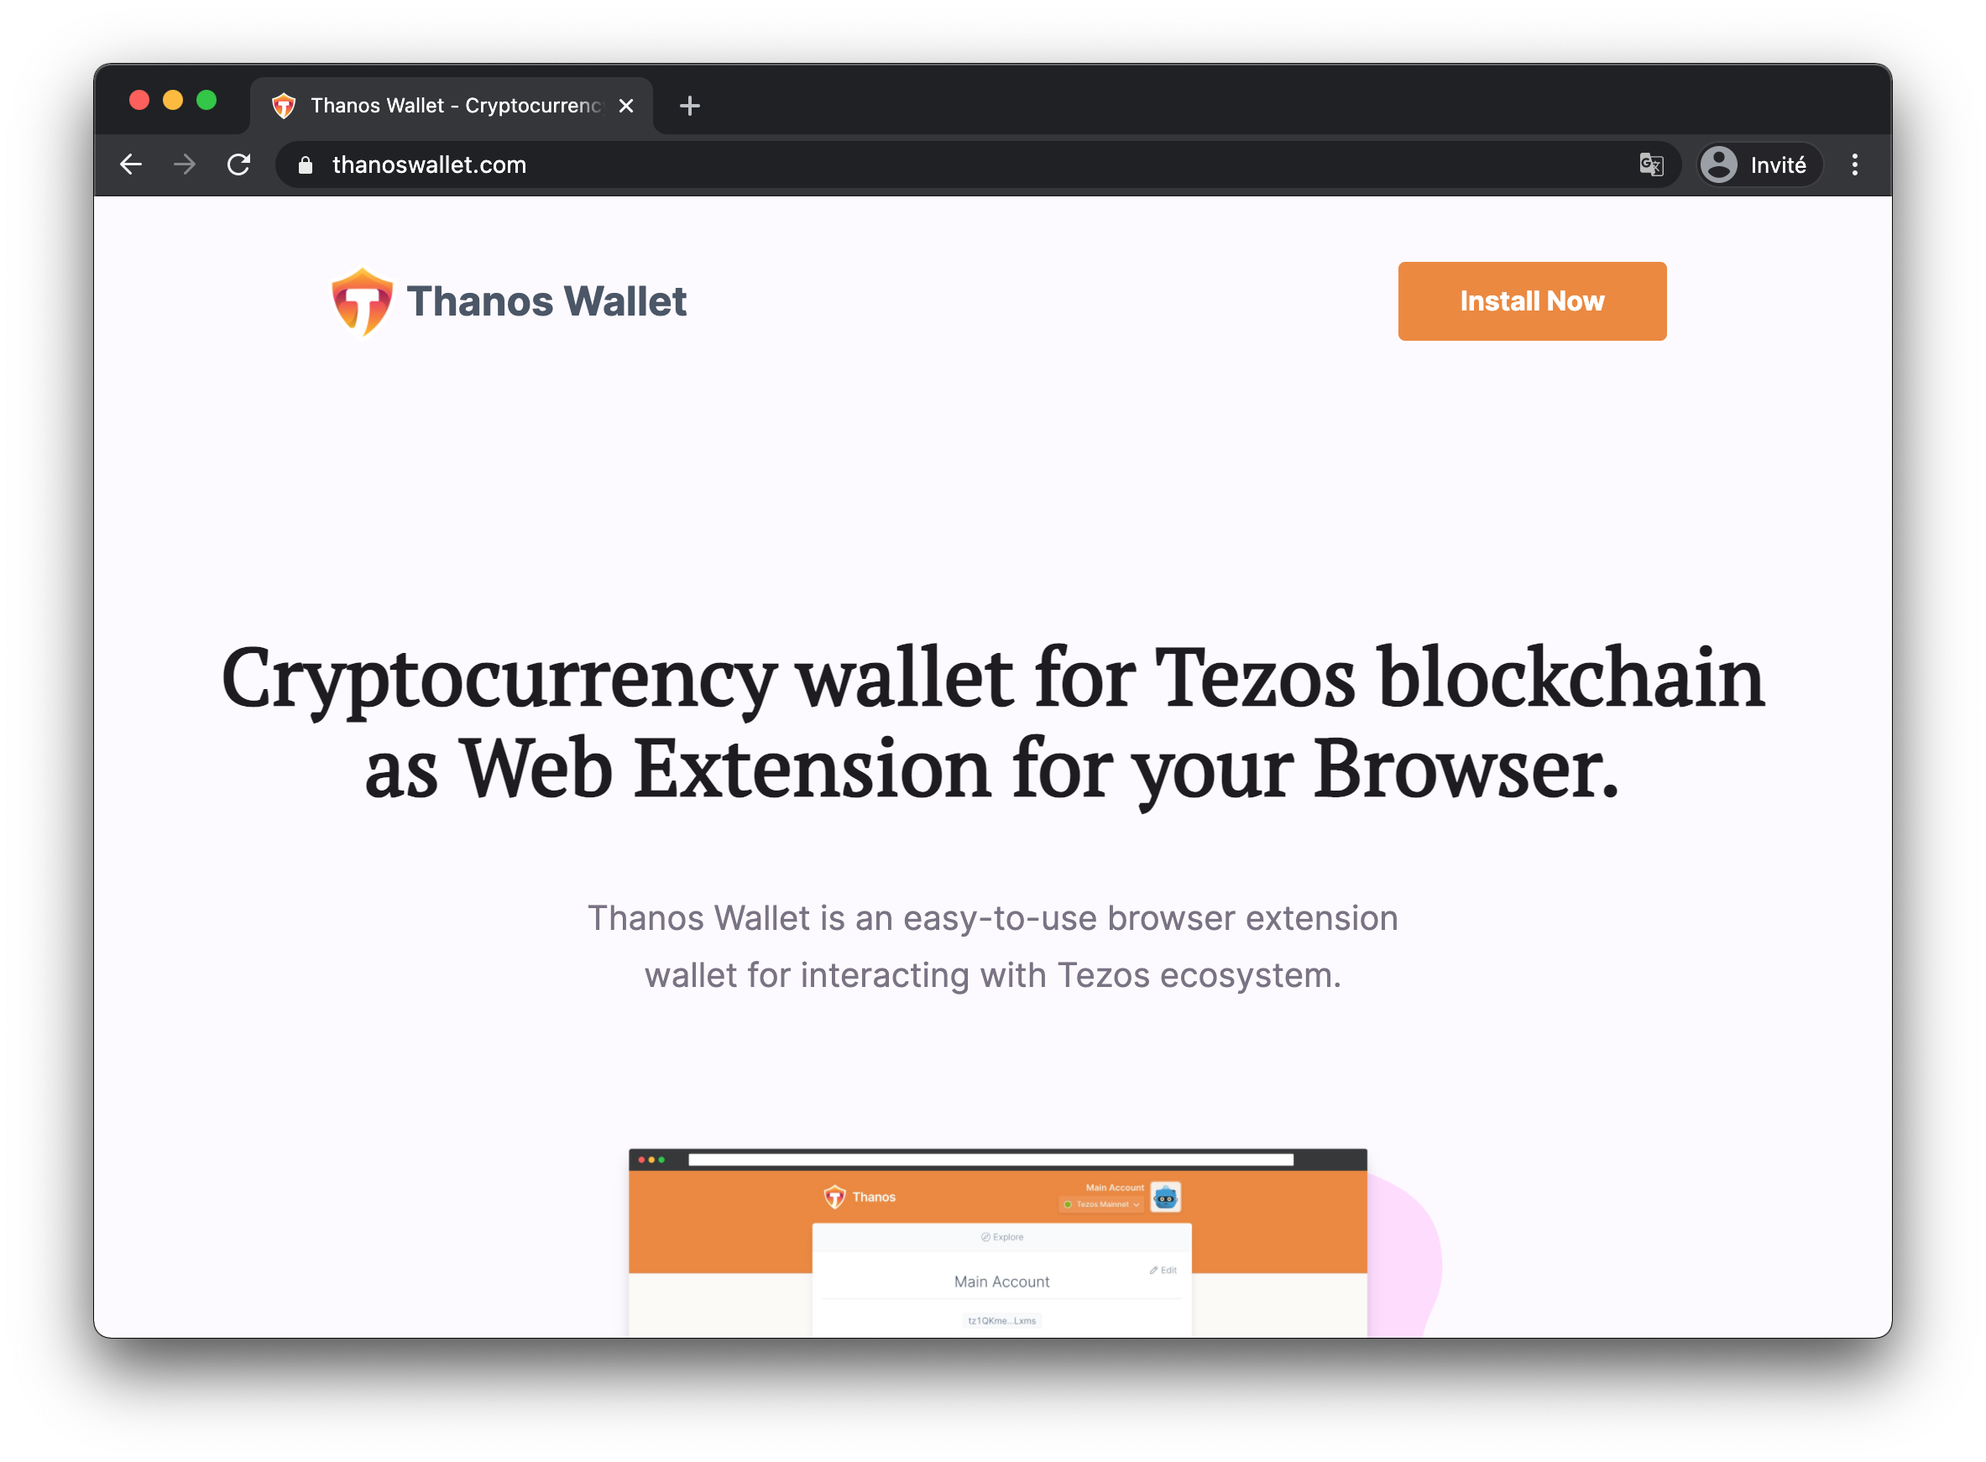
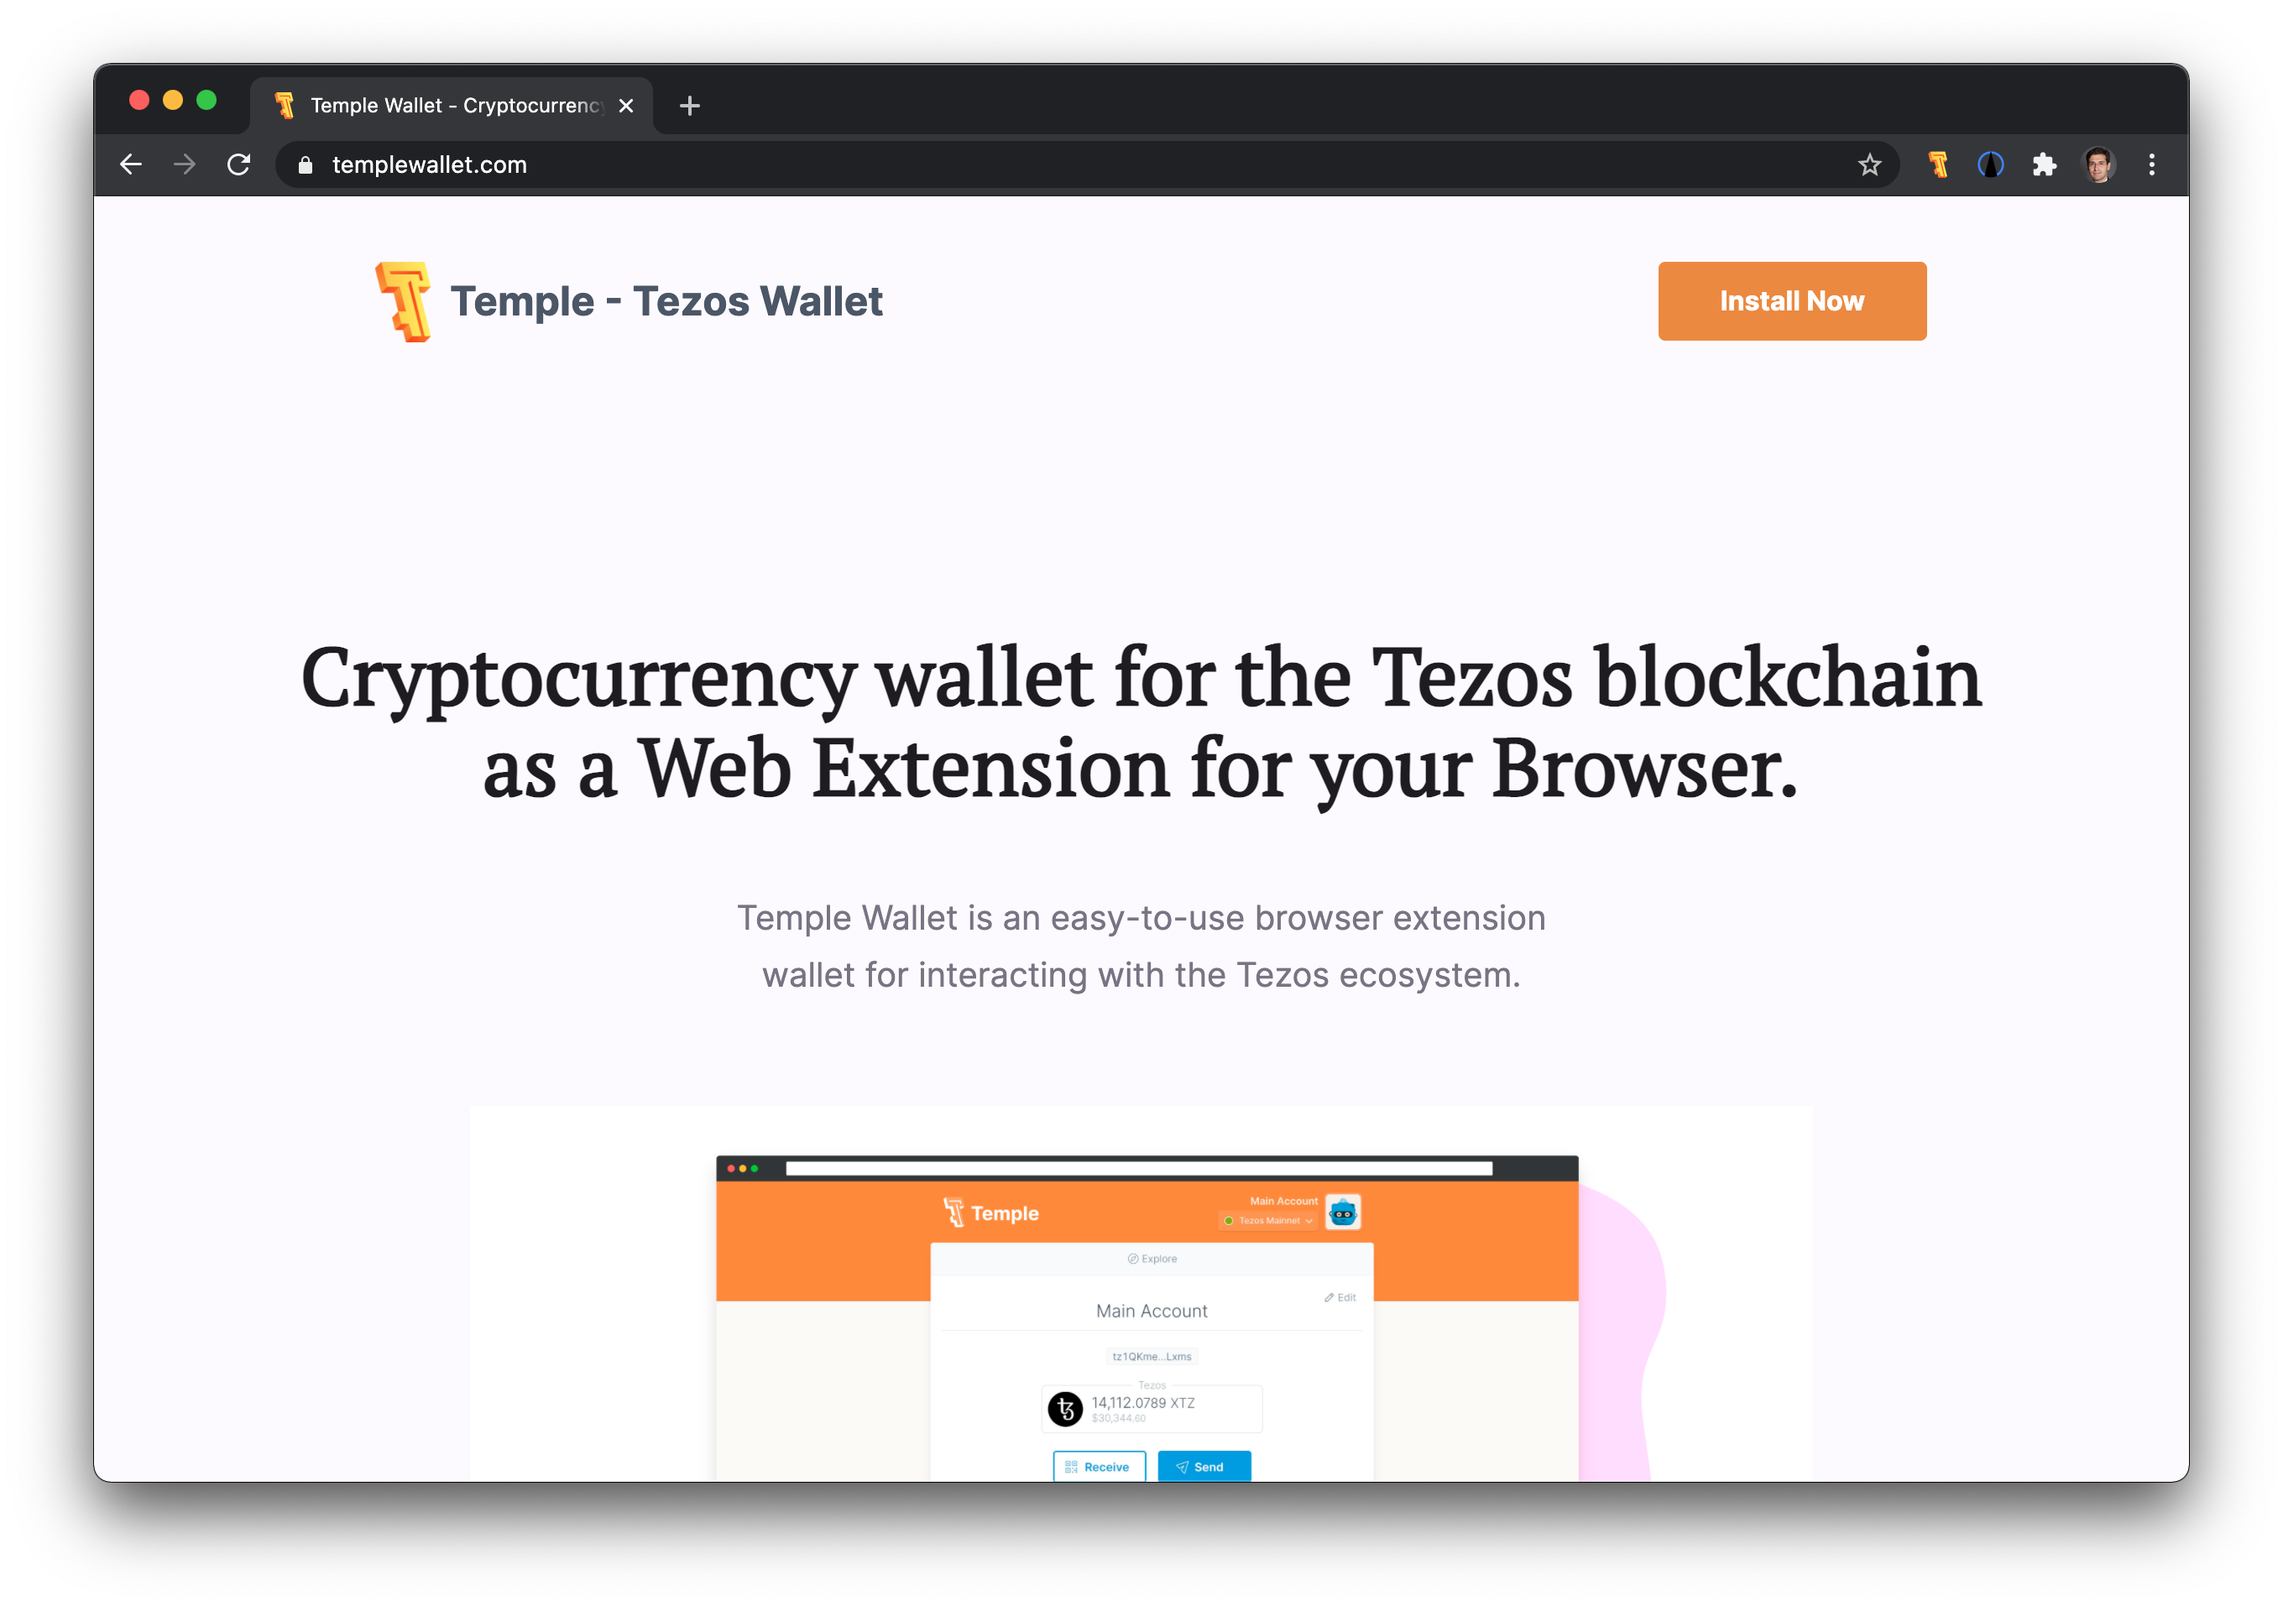
fix tools pages

Changed region(s): [[0.0309, 0.031, 0.9873, 0.961], [0.0926, 0.403, 0.8948, 0.682]]

diff --git a/sidebars.js b/sidebars.js
@@ -2,15 +2,33 @@ module.exports = {
   docs:  ['doc1', 'doc2', 'doc3'],
   tools:  [
     'dapp-tools/tools1',
-    'dapp-tools/tools10',
-    'dapp-tools/tools9',
-    'dapp-tools/tools8',
-    'dapp-tools/tools7',
-    'dapp-tools/tools3',
-    'dapp-tools/tools2',
-      'dapp-tools/tools4',
-      'dapp-tools/tools5',
-      'dapp-tools/tools6',
+    {
+      type: 'category',
+      label: 'Blockchain',
+      items: [
+        'dapp-tools/tools8',
+        'dapp-tools/tools7',
+      ]
+    },
+    {
+      type: 'category',
+      label: 'User Interface',
+      items: [
+        'dapp-tools/tools10',
+        'dapp-tools/tools9',
+      ]
+    },
+    {
+      type: 'category',
+      label: 'Tools',
+      items: [
+        'dapp-tools/tools3',
+        'dapp-tools/tools2',
+        'dapp-tools/tools4',
+        'dapp-tools/tools5',
+        'dapp-tools/tools6',
+      ]
+    },
     ],
   miles: [
     'dapp-miles/miles1',

diff --git a/src/pages/dapps/index.js b/src/pages/dapps/index.js
@@ -115,7 +115,7 @@ function Dapps() {
             </Typography>
           </Grid>
           <Grid item style={{ marginBottom: '60px' }}>
-            <Button component={Link} to={useBaseUrl('docs/dapp-tools/tezos/')} variant='outlined' size='large'>
+            <Button component={Link} to={useBaseUrl('docs/dapp-tools/')} variant='outlined' size='large'>
               Technical Stack
             </Button>
           </Grid>

diff --git a/docs/dapp-tools/tools1.md b/docs/dapp-tools/tools1.md
@@ -11,24 +11,25 @@ import Link from '@docusaurus/Link';
 
 The section presents the technologies and tools used to developp the DApps.
 
-## User Interface
-
-| Name | Logo | Description |
-| ------------- | ------------- | --------- |
-| <Link to="/docs/dapp-tools/react">React</Link> | <DappFigure img='react-icon.svg' width='20%'/> | A JavaScript library for building user interfaces. |
-| <Link to="/docs/dapp-tools/taquito">Taquito</Link> | <DappFigure img='taquito-logo.png' width='40%'/> | A TypeScript library suite for development on the Tezos blockchain. |
-
 ## Blockchain
 
 | Name | Logo | Description |
 | ------------- | ------------- | -------- |
 | <Link to="/docs/dapp-tools/tezos">Tezos</Link> | <DappFigure img='tezos-logo.svg' width='100%'/> | Tezos is an open-source platform for assets and applications backed by a global community of validators, researchers, and builders. |
 | <Link to="/docs/dapp-tools/archetype">Archetype</Link> | <DappFigure img='archetype.svg' width='100%'/> | Archetype is a high level DSL to developp smart contract on the Tezos blockchain. |
+
+## User Interface
+
+| Name | Logo | Description |
+| ------------- | ------------- | --------- |
+| <Link to="/docs/dapp-tools/react">React</Link> | <DappFigure img='react-icon2.svg' width='30%'/> | A JavaScript library for building user interfaces. |
+| <Link to="/docs/dapp-tools/taquito">Taquito</Link> | <DappFigure img='taquito-logo.png' width='70%'/> | A TypeScript library suite for development on the Tezos blockchain. |
+
 ## Tools
 
 | Name | Logo | Description |
 | ------------- | ------------- | --------- |
-| <Link to="/docs/dapp-tools/thanos">Thanos</Link>      | <DappFigure img='thanos-logo.png' width='20%'/> |  Thanos is a cryptocurrency wallet for Tezos blockchain that comes as a web extension for the browser |
+| <Link to="/docs/dapp-tools/thanos">Temple</Link>      | <DappFigure img='thanos-logo.png' width='20%'/> |  Temple is a cryptocurrency wallet for Tezos blockchain that comes as a web extension for the browser |
 | <Link to="/docs/dapp-tools/bcd">Better Call Dev</Link> | <DappFigure img='bcd-logo.png' width='70%'/> |  Smart contract indexer/explorer |
 |  <Link to="/docs/dapp-tools/gitpod">Gitpod</Link>  | <DappFigure img='gitpod-ddd.svg' width='60%'/> | Gitpod is an open source platform for automated and ready-to-code development environments  |
 

diff --git a/docs/dapp-tools/tools2.md b/docs/dapp-tools/tools2.md
@@ -1,7 +1,7 @@
 ---
 id: tools2
-title: Thanos Wallet
-sidebar_label: Thanos Wallet
+title: Temple Wallet
+sidebar_label: Temple Wallet
 slug: /dapp-tools/thanos
 ---
 
@@ -11,20 +11,21 @@ import DappButton from '../DappButton';
 
 <DappFigure img='thanos-site.png' width='100%'/>
 
-## Install Thanos
+:::info
+Former name of the Temple wallet is <b>Thanos</b>; it may then sometimes be referred to as 'Thanos' in some screenshots
+:::
 
-Go the the thanos web page and follow the instructions by clicking on "Install Thanos" button.
+## Install Temple
 
-<DappButton url="https://thanoswallet.com/" txt="go to thanos page"/>
+Go the the Temple web page and follow the instructions by clicking on "Install Thanos" button.
 
-A screenshot of the Thanos site is presented below, showing the "Install Thanos" button in the upper right hand corner:
+<DappButton url="https://templewallet.com/" txt="go to Temple page"/>
 
-
-If you install Thanos for the first time, select the "Create a new wallet" option.
+If you install Temple for the first time, select the "Create a new wallet" option.
 
 ## Import faucet file
 
-In the Thanos user interface, open the menu by clicking the avatar image in the upper right hand corner, and click on the "Import Account" option, as illustrated below:
+In the Temple user interface, open the menu by clicking the avatar image in the upper right hand corner, and click on the "Import Account" option, as illustrated below:
 
 <DappFigure img='thanos-import1.png' width='80%'/>
 
